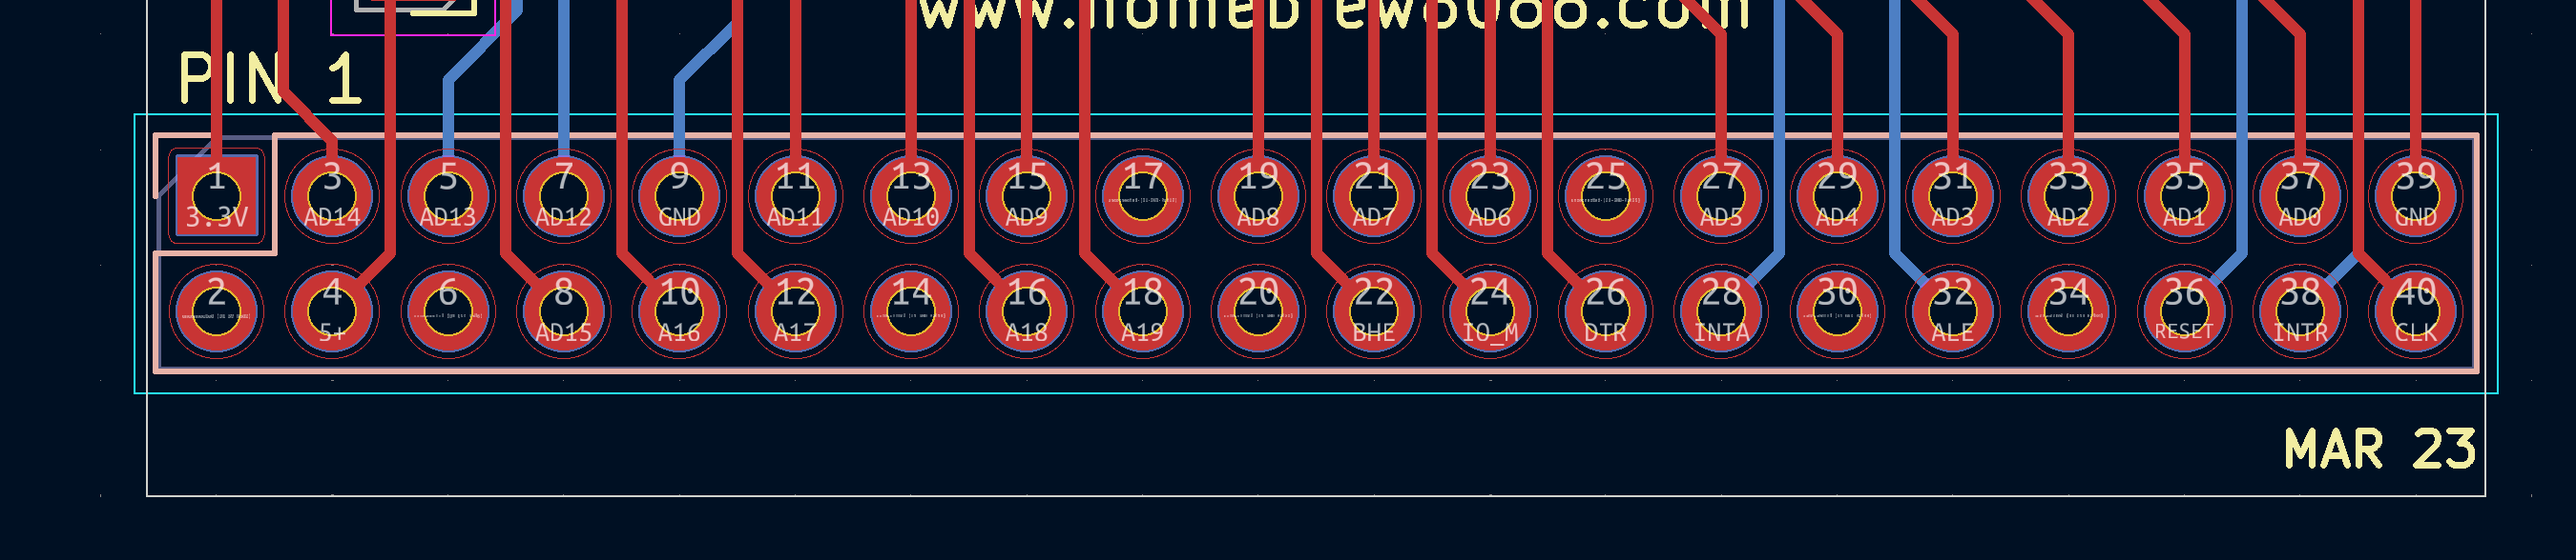
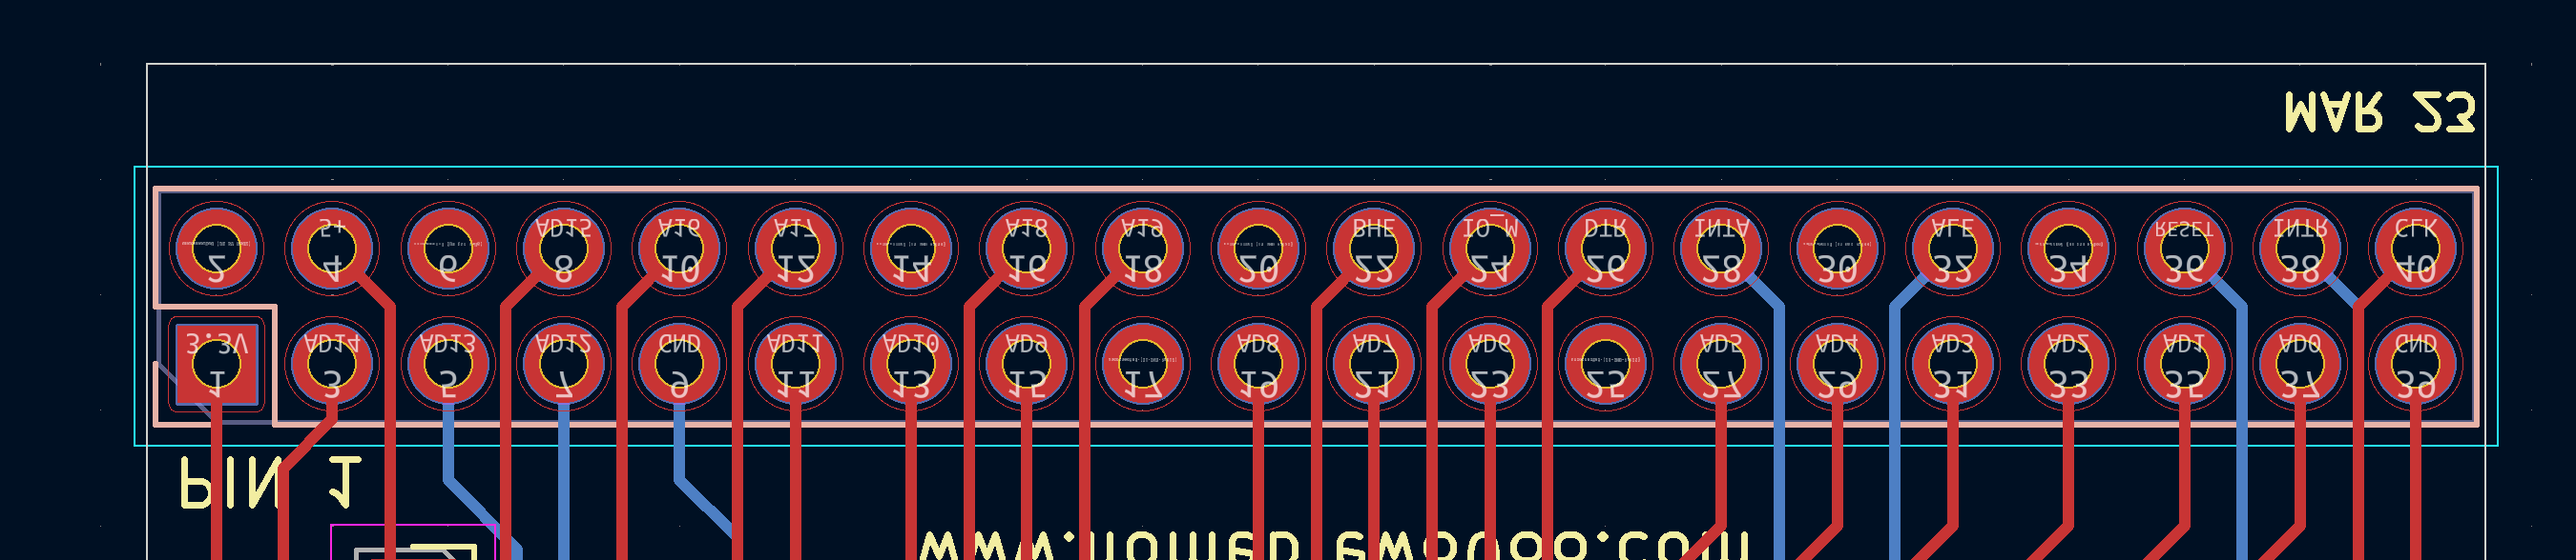
Fixed PI86_LOG variable handling in GETTING_STARTED, flipped pin header image for easier reference.

diff --git a/GETTING_STARTED.md b/GETTING_STARTED.md
@@ -76,7 +76,7 @@ The pinout used for Wiring Pi is seen here:
 
 ![description](https://github.com/bytemaster0/UofL-CSE525-Lab4-Pi86/blob/main/images/pipins.png)
 
-You can see the pinout from the daughterboard here, just be aware of the 90° rotation of the pins from the Pi — compare this to the Pinout from a standard Raspberry Pi as seen in the Wiring Pi diagram.
+You can see the pinout from the daughterboard here. I've flipped it so that the pins are what you see with a top-down view of the header. The labels are backwards, but the positions are correct.
 
 ![description](https://github.com/bytemaster0/UofL-CSE525-Lab4-Pi86/blob/main/images/adapterpinout.png)
 
@@ -271,6 +271,12 @@ Bus cycle logging is **off by default** because it generates ~1–2 MB/s of disk
 # On the Pi — from the terminal running the firmware:
 PI86_LOG=1 ./run_pi86.sh
 ```
+
+> **Note:** For `PI86_LOG=1` to work, `run_pi86.sh` must pass the variable through `sudo`. Open the script and check that the `sudo env` line includes `PI86_LOG=${PI86_LOG:-0}`:
+> ```bash
+> sudo env DISPLAY=:0 SDL_RENDER_DRIVER=software PI86_LOG=${PI86_LOG:-0} ./pi86
+> ```
+> If it is missing, add it. Open the file with: `nano ~/pi86/code/v20/run_pi86.sh`
 
 When logging is active, the firmware prints `[buslog] Logging bus cycles to bus_trace.csv` at startup. When disabled, it prints `[buslog] Bus logging disabled.`
 
